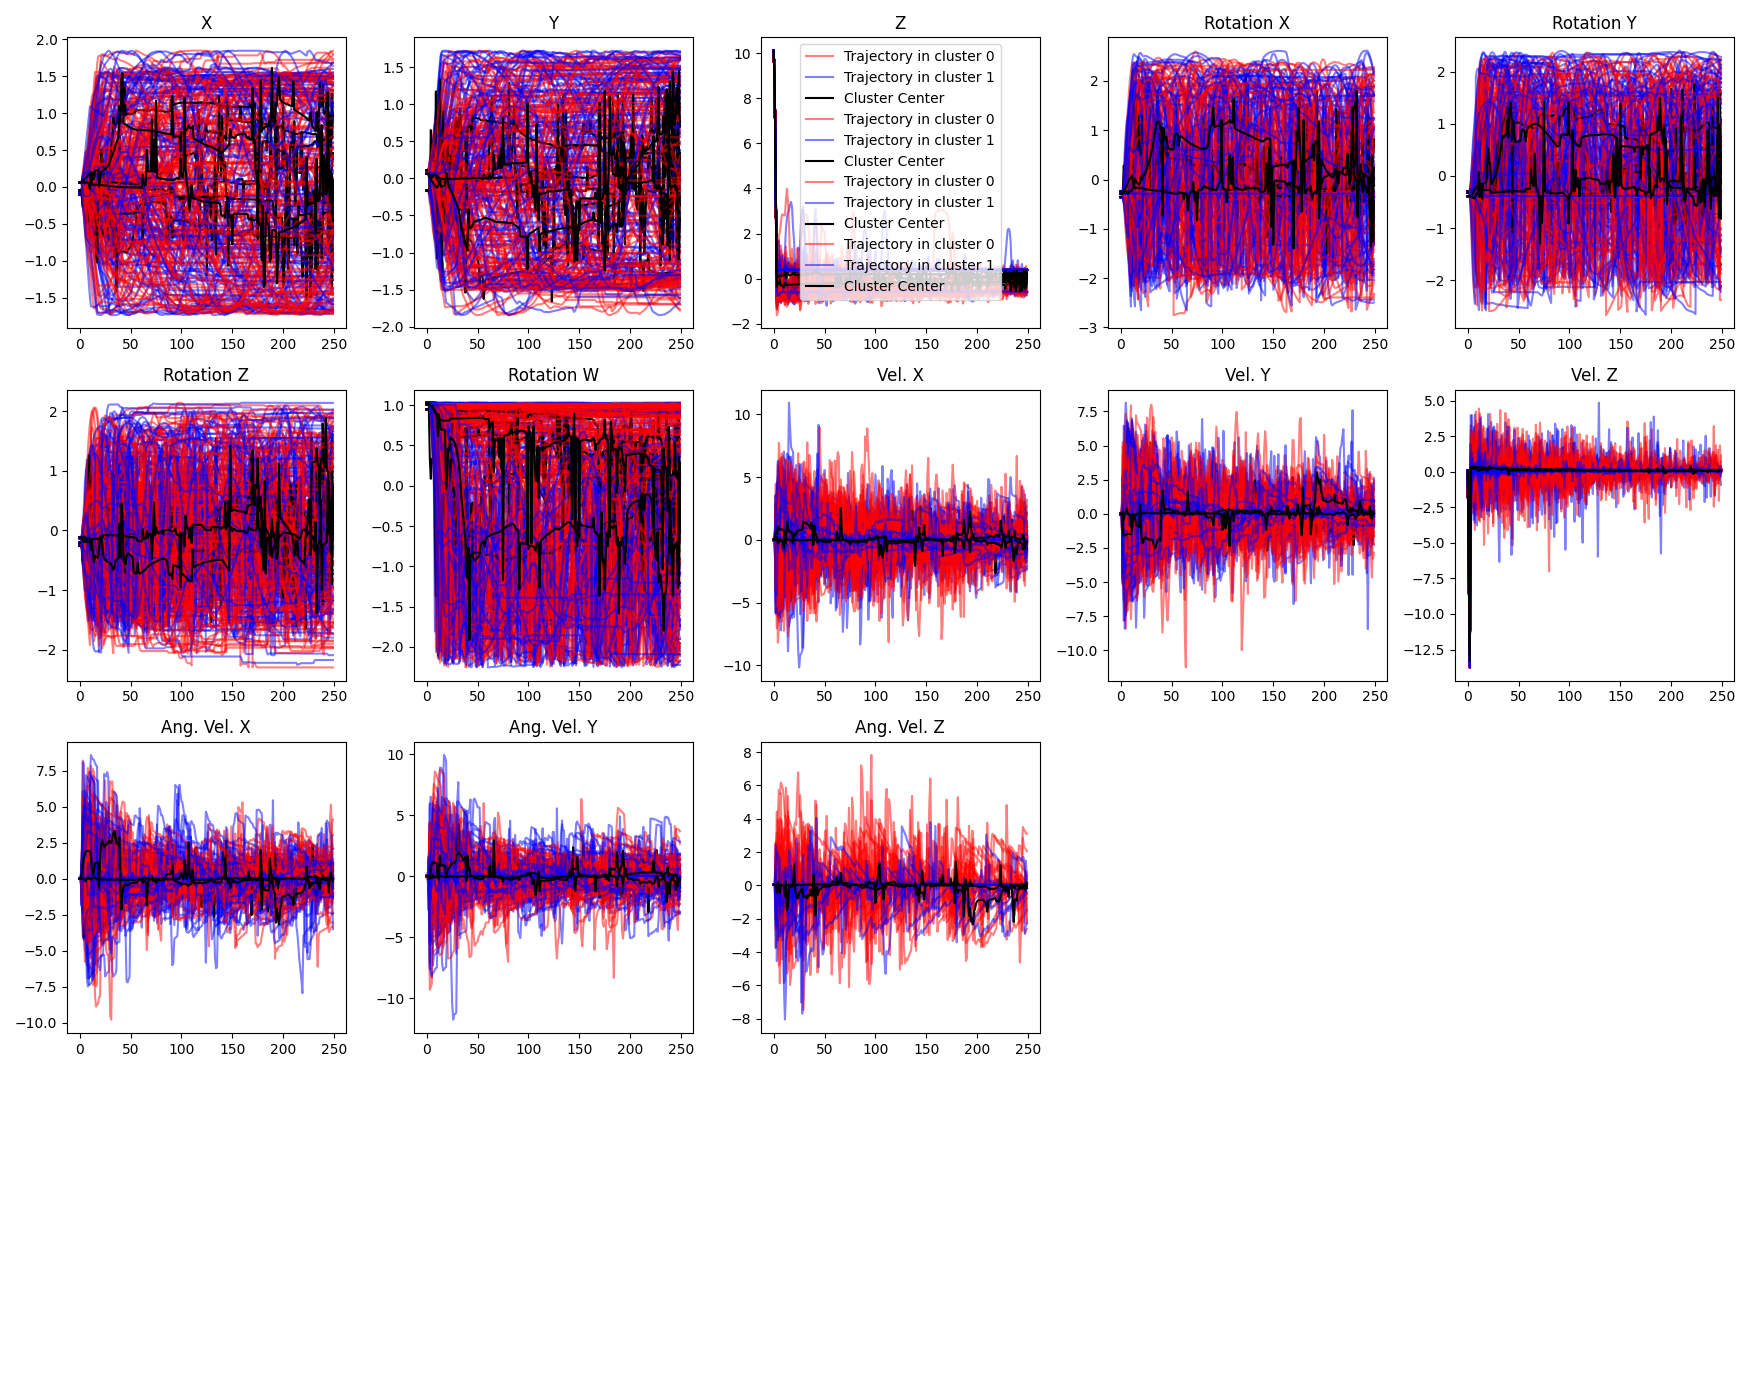
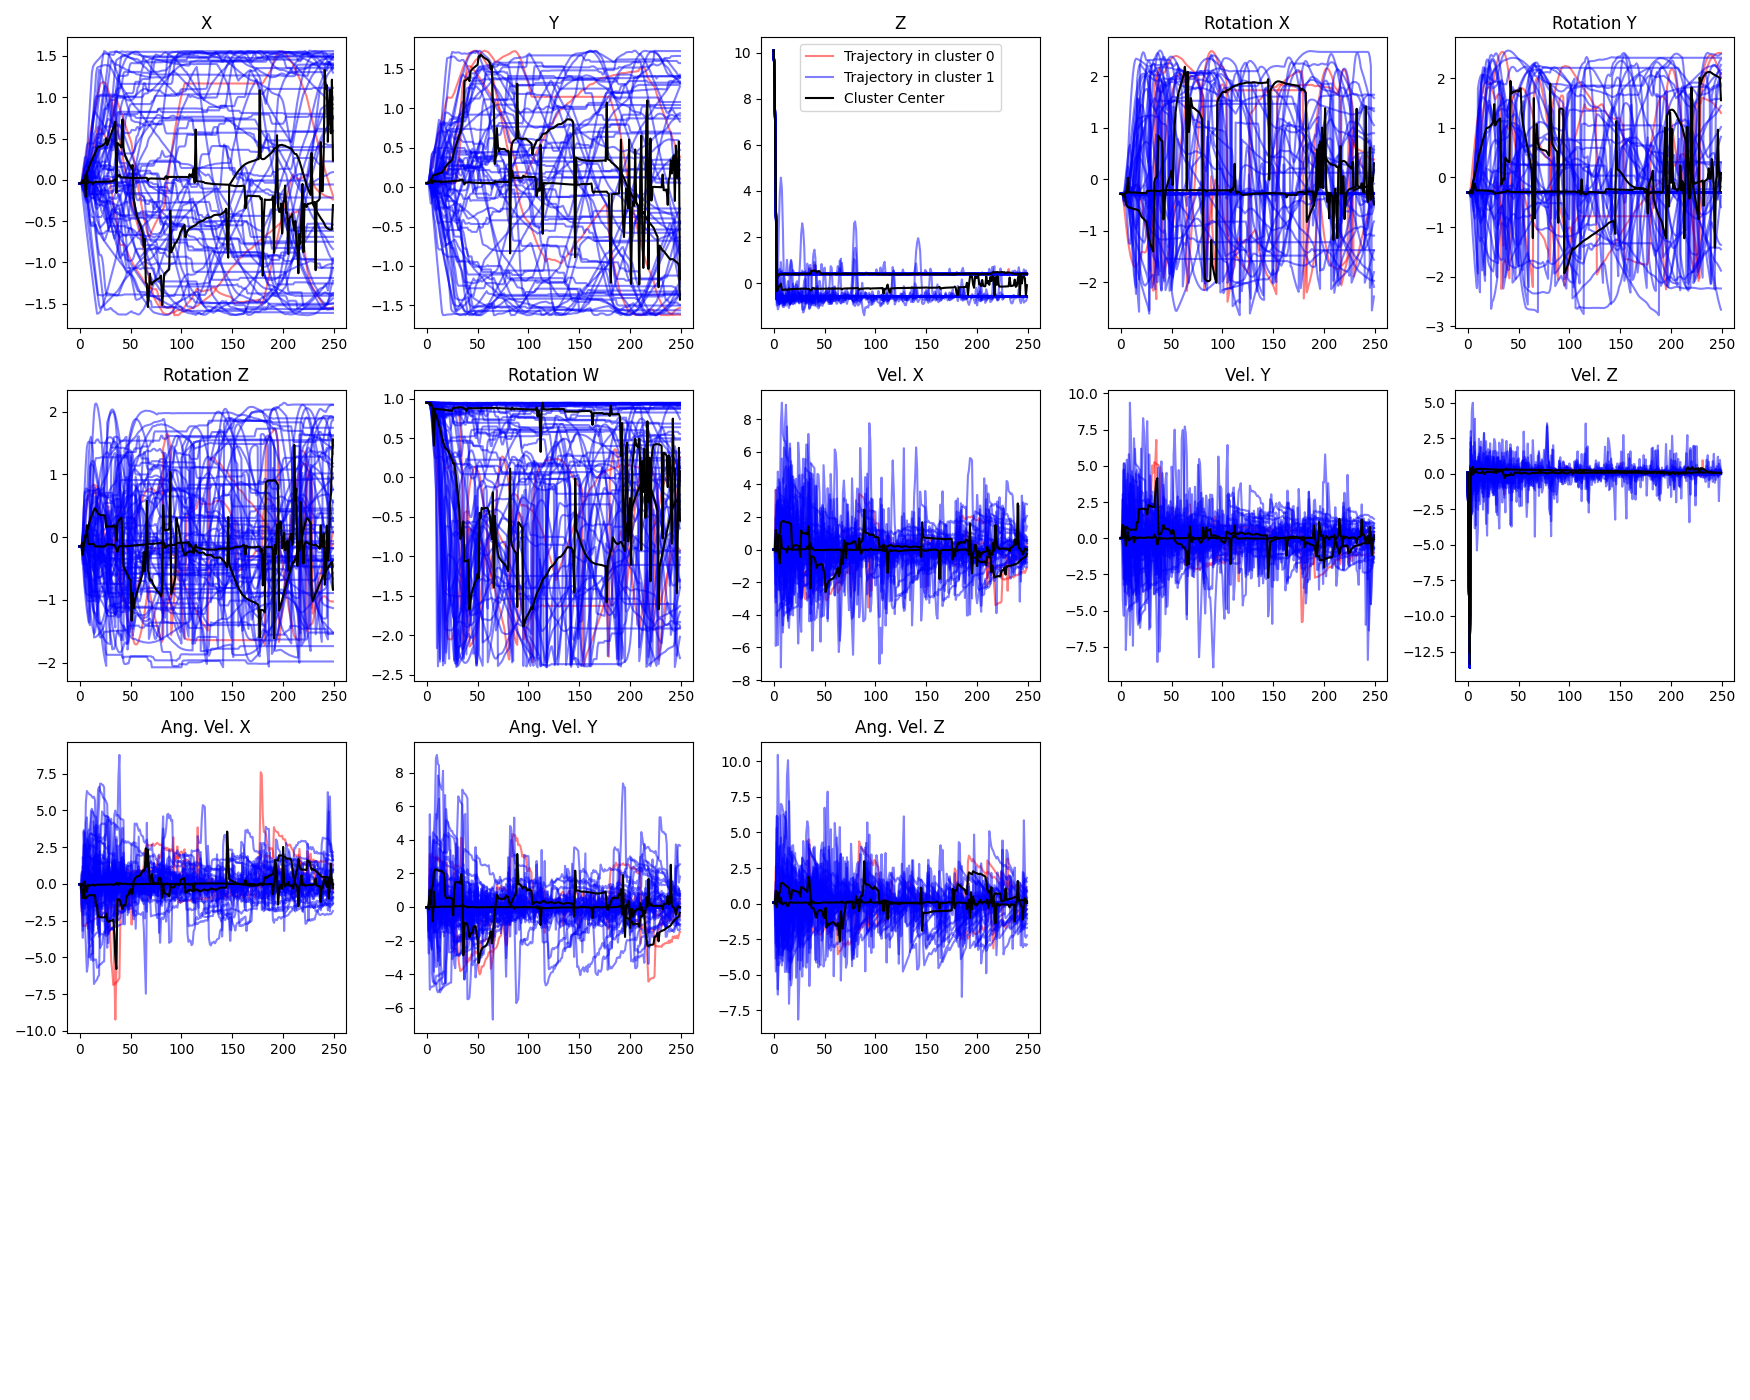
Plots

diff --git a/src/CausalCuriousPPO.py b/src/CausalCuriousPPO.py
@@ -195,7 +195,7 @@ class CausalCuriousPPO(OnPolicyAlgorithm):
 
         # Reorder state information, need it to be n_trajectories x n_timesteps x dimensions
         # reformat obs for clustering alg. Is n_trajs X n_timesteps X dimension of state space
-        data = format_obs(obs, self.episode_starts)
+        data = format_obs(obs, self.episode_starts, normalize=True)
 
         # do tslearn stuff
         kmeans = cluster(data,
